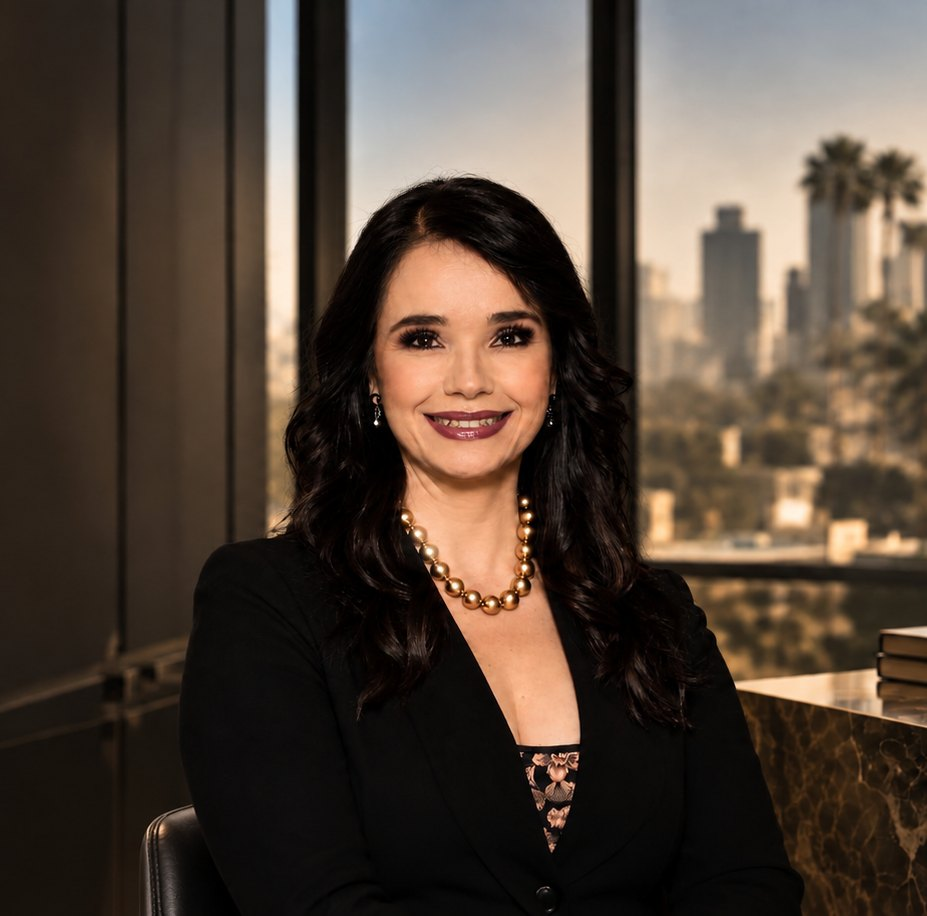
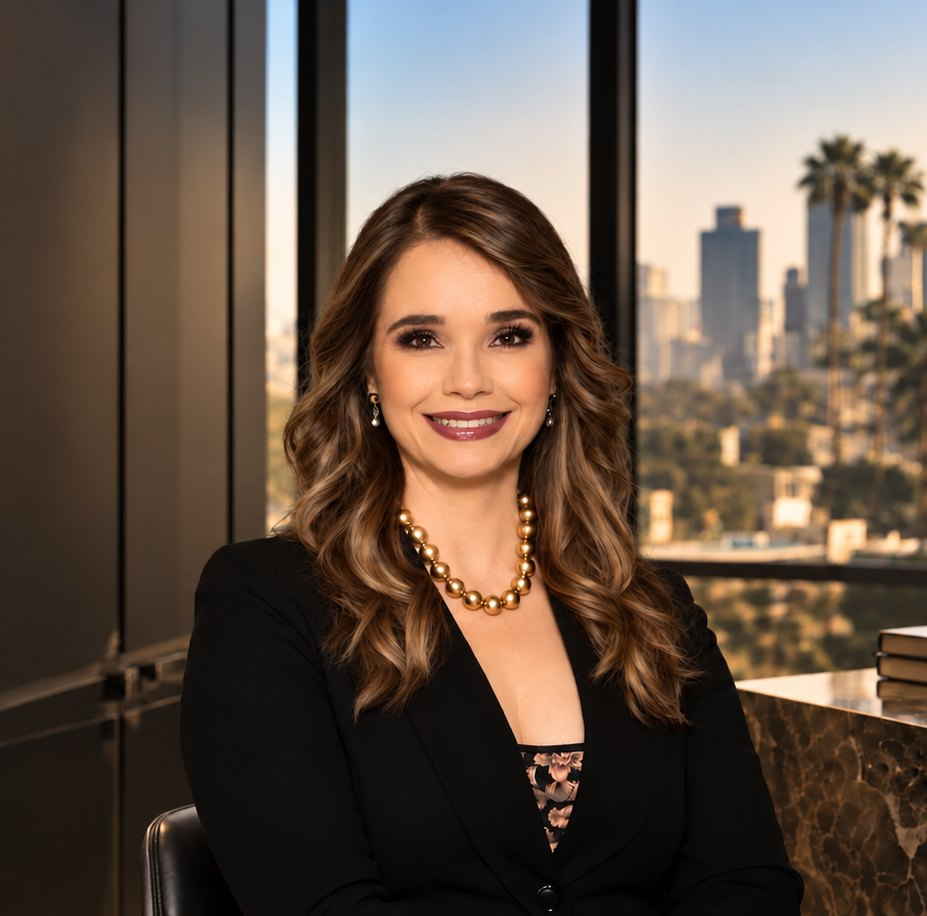
feat(sitegb): nueva foto del hero (fondoGB site)
Misma escena de oficina, con el retrato actualizado. Recorte movil
regenerado desde la nueva imagen.

diff --git a/coming-soon/sitegb/index.html b/coming-soon/sitegb/index.html
@@ -67,10 +67,10 @@
       <!-- HOME -->
       <section class="panel panel-home" id="home" aria-labelledby="home-title">
         <picture class="hero-scene" aria-hidden="true">
-          <source media="(max-width: 960px)" srcset="assets/hero-scene-mobile.webp?v=2" type="image/webp">
-          <source media="(max-width: 960px)" srcset="assets/hero-scene-mobile.jpg?v=2">
-          <source srcset="assets/hero-scene.webp?v=2" type="image/webp">
-          <img src="assets/hero-scene.jpg?v=2" alt="" width="1717" height="916">
+          <source media="(max-width: 960px)" srcset="assets/hero-scene-mobile.webp?v=3" type="image/webp">
+          <source media="(max-width: 960px)" srcset="assets/hero-scene-mobile.jpg?v=3">
+          <source srcset="assets/hero-scene.webp?v=3" type="image/webp">
+          <img src="assets/hero-scene.jpg?v=3" alt="" width="1717" height="916">
         </picture>
         <div class="hero-shade" aria-hidden="true"></div>
 
